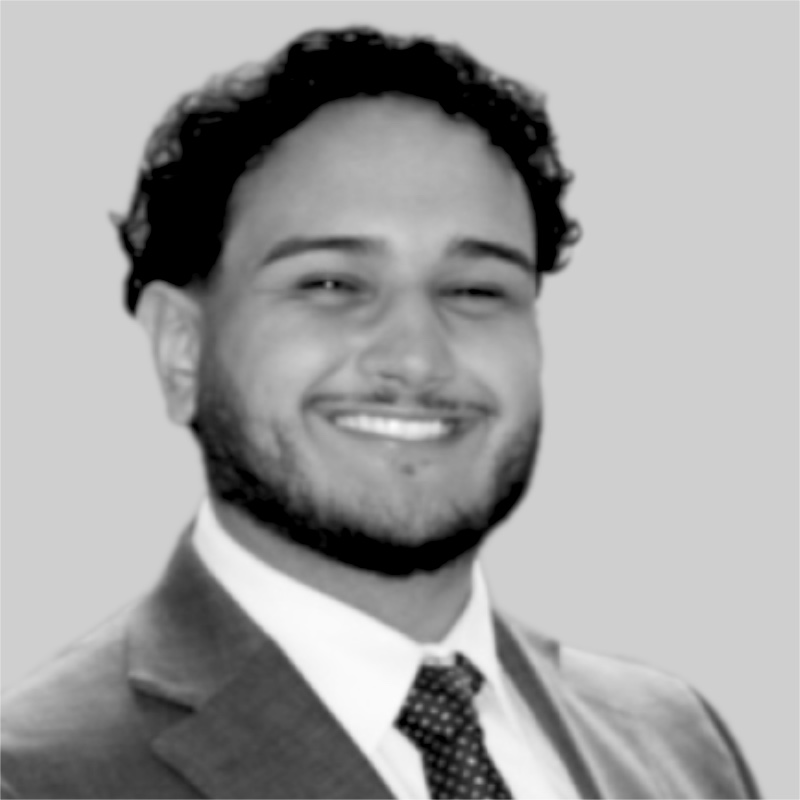
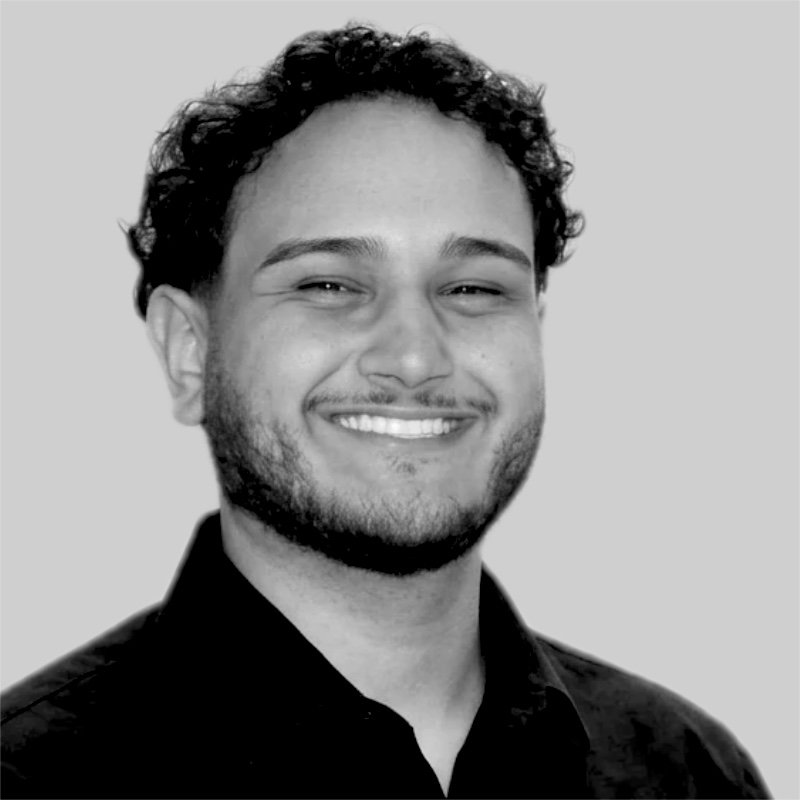
Team: new portrait for Miguel

diff --git a/team.html b/team.html
@@ -270,7 +270,7 @@
     <h1>Team</h1>
   </div>
   <div class="wrap team-grid">
-    <article class="member lead"><img class="portrait" src="/team/elmo.jpg" alt="Portrait of Elmo Gomes" width="800" height="800" loading="lazy"><div><p class="role">Founder</p><h2>Elmo Gomes</h2><ul><li>Former global executive at a leading pharmaceutical company for over 20 years</li><li>PhD in Economics, University of Hertfordshire, UK</li><li>Health Economics, Harvard University</li><li>Technology development for several startups, including Playback Aps, Clime GmbH, MedIAudit and Calendafy Plt</li><li><a href="mailto:elmo.gomes@pharmaccelerator.ai">elmo.gomes@pharmaccelerator.ai</a></li></ul></div></article><article class="member"><img class="portrait" src="/team/guilherme.jpg?v=2" alt="Portrait of Guilherme Bassi" width="800" height="800" loading="lazy"><p class="role">CTO</p><h2>Guilherme Bassi</h2><ul><li>Software developer and AI engineer</li><li>BSc in Technology, Estácio</li><li>Projects for Instituto de Informática (Segurança Social, CPCJ), Mobi.E, Rádio Popular, Comboios de Portugal (CP), AMA (gov.pt) and Câmara Municipal do Porto</li></ul></article><article class="member"><img class="portrait" src="/team/gabriela.jpg?v=2" alt="Portrait of Gabriela Esteves" width="800" height="800" loading="lazy"><p class="role">Generative AI Evaluator</p><h2>Gabriela Esteves</h2><ul><li>RLHF and LLM training</li><li>Multilingual AI specialist and model training QA</li><li>Trainer in Portuguese, English, French and Italian</li></ul></article><article class="member"><div class="portrait initials" role="img" aria-label="Juliana Mello">JM</div><p class="role">AI Data Curator Intern · Pharmaceutical Sciences</p><h2>Juliana Mello</h2><ul><li>Pharmaceutical Sciences BSc student</li></ul></article><article class="member"><img class="portrait" src="/team/miguel.jpg" alt="Portrait of Miguel Gomes" width="800" height="800" loading="lazy"><p class="role">AI Data Curator Intern · Economics and Finance</p><h2>Miguel Gomes</h2><ul><li>MSc student</li><li>BSc in Finance, ISEG, Universidade de Lisboa</li></ul></article>
+    <article class="member lead"><img class="portrait" src="/team/elmo.jpg" alt="Portrait of Elmo Gomes" width="800" height="800" loading="lazy"><div><p class="role">Founder</p><h2>Elmo Gomes</h2><ul><li>Former global executive at a leading pharmaceutical company for over 20 years</li><li>PhD in Economics, University of Hertfordshire, UK</li><li>Health Economics, Harvard University</li><li>Technology development for several startups, including Playback Aps, Clime GmbH, MedIAudit and Calendafy Plt</li><li><a href="mailto:elmo.gomes@pharmaccelerator.ai">elmo.gomes@pharmaccelerator.ai</a></li></ul></div></article><article class="member"><img class="portrait" src="/team/guilherme.jpg?v=2" alt="Portrait of Guilherme Bassi" width="800" height="800" loading="lazy"><p class="role">CTO</p><h2>Guilherme Bassi</h2><ul><li>Software developer and AI engineer</li><li>BSc in Technology, Estácio</li><li>Projects for Instituto de Informática (Segurança Social, CPCJ), Mobi.E, Rádio Popular, Comboios de Portugal (CP), AMA (gov.pt) and Câmara Municipal do Porto</li></ul></article><article class="member"><img class="portrait" src="/team/gabriela.jpg?v=2" alt="Portrait of Gabriela Esteves" width="800" height="800" loading="lazy"><p class="role">Generative AI Evaluator</p><h2>Gabriela Esteves</h2><ul><li>RLHF and LLM training</li><li>Multilingual AI specialist and model training QA</li><li>Trainer in Portuguese, English, French and Italian</li></ul></article><article class="member"><div class="portrait initials" role="img" aria-label="Juliana Mello">JM</div><p class="role">AI Data Curator Intern · Pharmaceutical Sciences</p><h2>Juliana Mello</h2><ul><li>Pharmaceutical Sciences BSc student</li></ul></article><article class="member"><img class="portrait" src="/team/miguel.jpg?v=2" alt="Portrait of Miguel Gomes" width="800" height="800" loading="lazy"><p class="role">AI Data Curator Intern · Economics and Finance</p><h2>Miguel Gomes</h2><ul><li>MSc student</li><li>BSc in Finance, ISEG, Universidade de Lisboa</li></ul></article>
   </div>
   <section class="remote">
     <div class="wrap">
